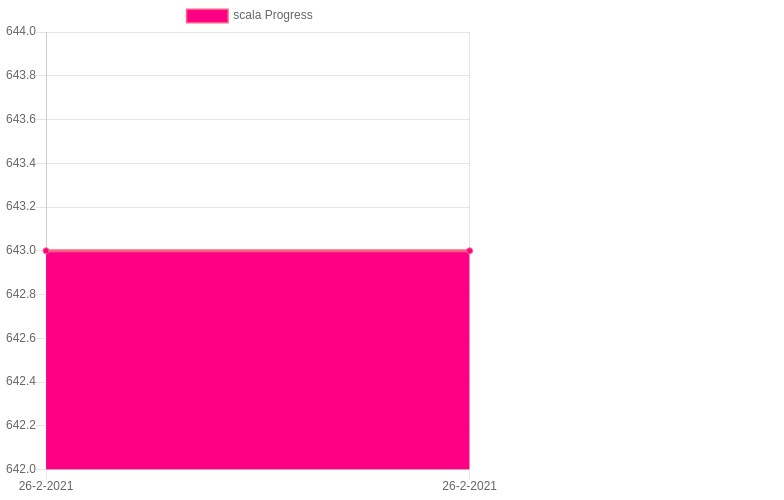
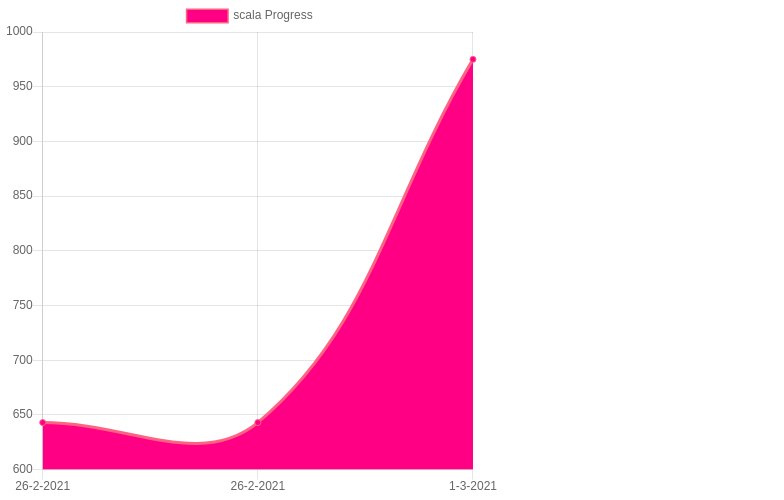
scala promises and future

diff --git a/total.html b/total.html
@@ -9,7 +9,7 @@
         <script src="https://cdn.jsdelivr.net/npm/chart.js@2.8.0"></script>
         <script>
           var ctx = document.getElementById("total").getContext("2d");
-          const goLabelsDates = ["2021-02-27T01:37:43.112Z","2021-02-27T01:38:01.628Z",];
+          const goLabelsDates = ["2021-02-27T01:37:43.112Z","2021-02-27T01:38:01.628Z","2021-03-01T13:41:18.753Z",];
           var chart = new Chart(ctx, {
             type: 'line',
             data: {
@@ -18,7 +18,7 @@
                 label: 'total Progress',
                 backgroundColor: 'rgb(255, 0, 132)',
                 borderColor: 'rgb(255, 99, 132)',
-                data: [7975,7975,]
+                data: [7975,7975,8307,]
               }]
             },
           });

diff --git a/scala.html b/scala.html
@@ -9,7 +9,7 @@
         <script src="https://cdn.jsdelivr.net/npm/chart.js@2.8.0"></script>
         <script>
           var ctx = document.getElementById("scala").getContext("2d");
-          const goLabelsDates = ["2021-02-27T01:37:43.111Z","2021-02-27T01:38:01.627Z",];
+          const goLabelsDates = ["2021-02-27T01:37:43.111Z","2021-02-27T01:38:01.627Z","2021-03-01T13:41:18.752Z",];
           var chart = new Chart(ctx, {
             type: 'line',
             data: {
@@ -18,7 +18,7 @@
                 label: 'scala Progress',
                 backgroundColor: 'rgb(255, 0, 132)',
                 borderColor: 'rgb(255, 99, 132)',
-                data: [643,643,]
+                data: [643,643,975,]
               }]
             },
           });

diff --git a/Readme.md b/Readme.md
@@ -238,3 +238,43 @@ node ./count.js
 * Spring, Play
 * Scala, Java
 , 2021-02-27T01:38:01.628Z
+# All count
+|Language|Lines|%|%|
+|----------|-------|--------|--------|
+|go|1982|99|99|
+|js|1822|91|91|
+|python|1149|57|57|
+|scala|975|49|49|
+|ts|829|41|41|
+|ruby|810|41|41|
+|java|731|37|37|
+|sql|9|0|0|
+|dotnet|0|0|0|
+|words|0|0|0|
+|TOTAL|8307|830.700%|
+10/02(0)
+
+10/03(8307)
+
+
+# run it
+node ./count.js
+    
+# Enforce
+* Algorithms
+* Code writing velocity
+
+# Activities
+* Write source code related to any topic
+* Comment the understanding part of it
+    
+# Purposes
+* Reach to 100 lines daily
+* 2000 lines of source code monthly
+* 20 commits more
+
+# Technologies
+* Angular, React, Vue
+* Spring, Play
+* Scala, Java
+, 2021-03-01T13:41:18.753Z
